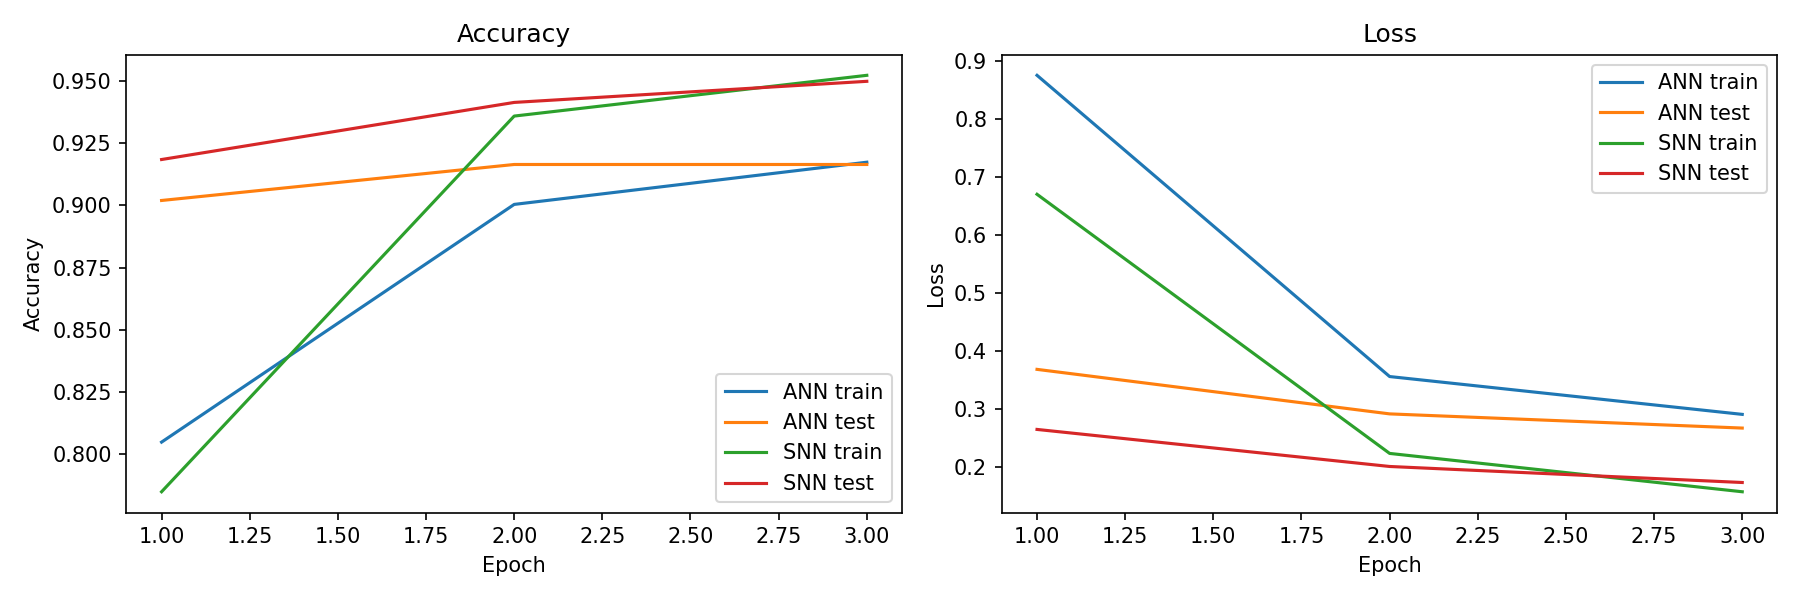
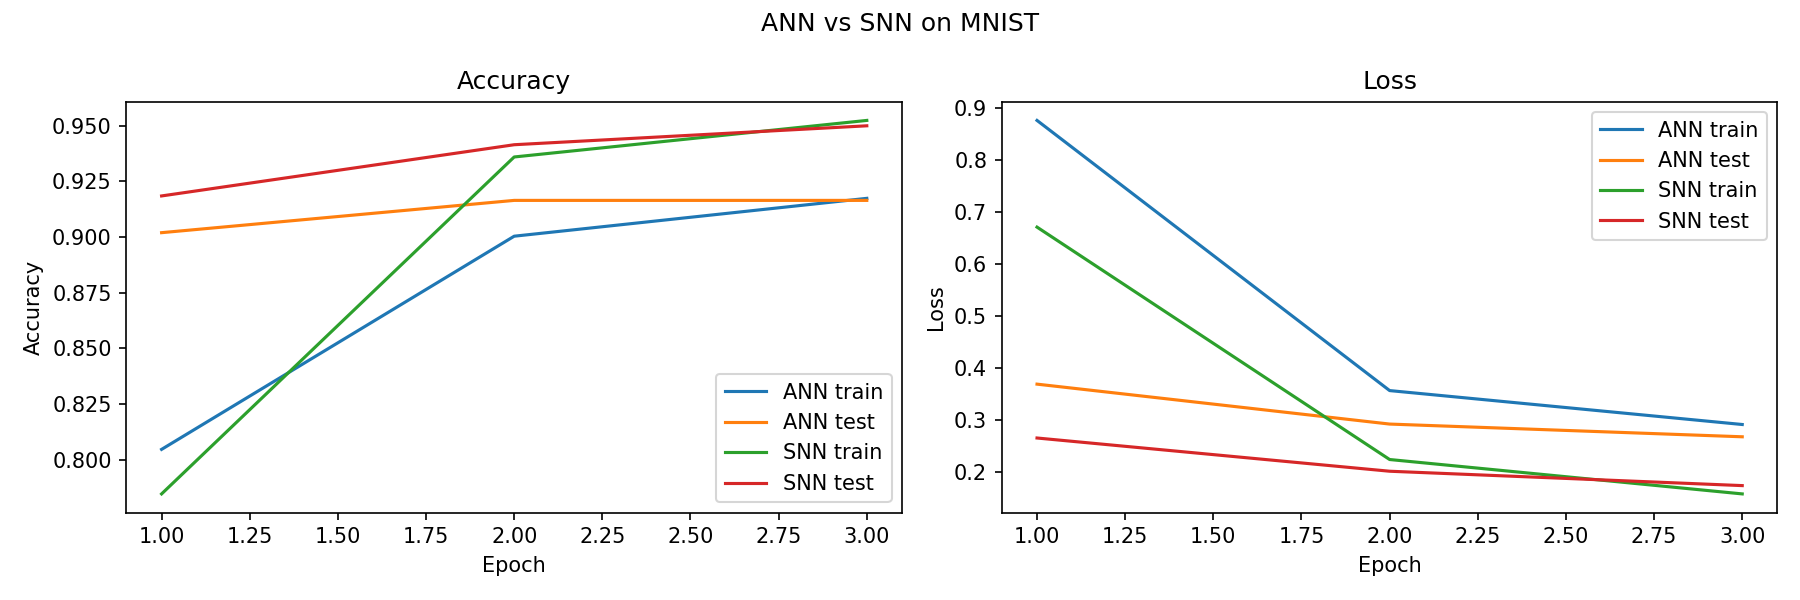
explicit mnist and readme

diff --git a/utils.py b/utils.py
@@ -101,6 +101,7 @@ def plot_results(history: list[dict[str, object]], output_dir: Path) -> None:
     axes[1].set_ylabel("Loss")
     axes[1].legend()
 
+    fig.suptitle("ANN vs SNN on MNIST")
     fig.tight_layout()
     fig.savefig(output_dir / "comparison_curves.png", dpi=150)
     plt.close(fig)
@@ -114,6 +115,7 @@ def save_summary(summary: dict[str, object], history: list[dict[str, object]], o
 
     with (output_dir / "comparison.md").open("w", encoding="utf-8") as file:
         file.write("# Porownanie ANN i SNN na MNIST\n\n")
+        file.write("Eksperyment dotyczy klasyfikacji MNIST z porownaniem klasycznej sieci neuronowej i SNN.\n\n")
         file.write("| Model | Test accuracy | Test loss |\n")
         file.write("| --- | ---: | ---: |\n")
         file.write(f"| ANN | {summary['ann_test_accuracy']:.4f} | {summary['ann_test_loss']:.4f} |\n")

diff --git a/main.py b/main.py
@@ -53,6 +53,7 @@ def main() -> None:
     final_snn_test = evaluate_snn(snn_model, test_loader, device, config.time_steps)
 
     summary = {
+        "dataset": "MNIST",
         "config": config.__dict__,
         "device": str(device),
         "ann_test_loss": final_ann_test[0],

diff --git a/README.md b/README.md
@@ -1,0 +1,31 @@
+# Projekt SNN vs ANN na MNIST
+
+Ten projekt porownuje klasyczna siec neuronowa i Spiking Neural Network na zbiorze MNIST. Prototyp trenuje oba modele na tym samym podzbiorze danych, zapisuje metryki i wykresy porownawcze do folderu `results/`.
+
+## Uruchomienie
+
+Najprostszy sposob to uruchomienie przez `uv`:
+
+```bash
+uv run main.py
+```
+
+Przy pierwszym uruchomieniu `uv` utworzy lokalne srodowisko `.venv` i pobierze zaleznosci z `pyproject.toml`.
+
+## Co powstaje w `results/`
+
+Po zakonczeniu treningu zapisuje sie:
+
+- `results/summary.json` - podsumowanie eksperymentu MNIST z metrykami ANN i SNN,
+- `results/history.csv` - historia uczenia dla obu modeli,
+- `results/comparison.md` - tekstowe porownanie wynikow na MNIST,
+- `results/comparison_curves.png` - wykresy accuracy i loss dla przypadku MNIST.
+
+## Zaleznosci
+
+Zaleznosci sa zdefiniowane w `pyproject.toml` i obejmuja m.in.:
+
+- `torch`
+- `torchvision`
+- `snntorch`
+- `matplotlib`

diff --git a/results/comparison.md b/results/comparison.md
@@ -1,5 +1,7 @@
 # Porownanie ANN i SNN na MNIST
 
+Eksperyment dotyczy klasyfikacji MNIST z porownaniem klasycznej sieci neuronowej i SNN.
+
 | Model | Test accuracy | Test loss |
 | --- | ---: | ---: |
 | ANN | 0.9165 | 0.2675 |
